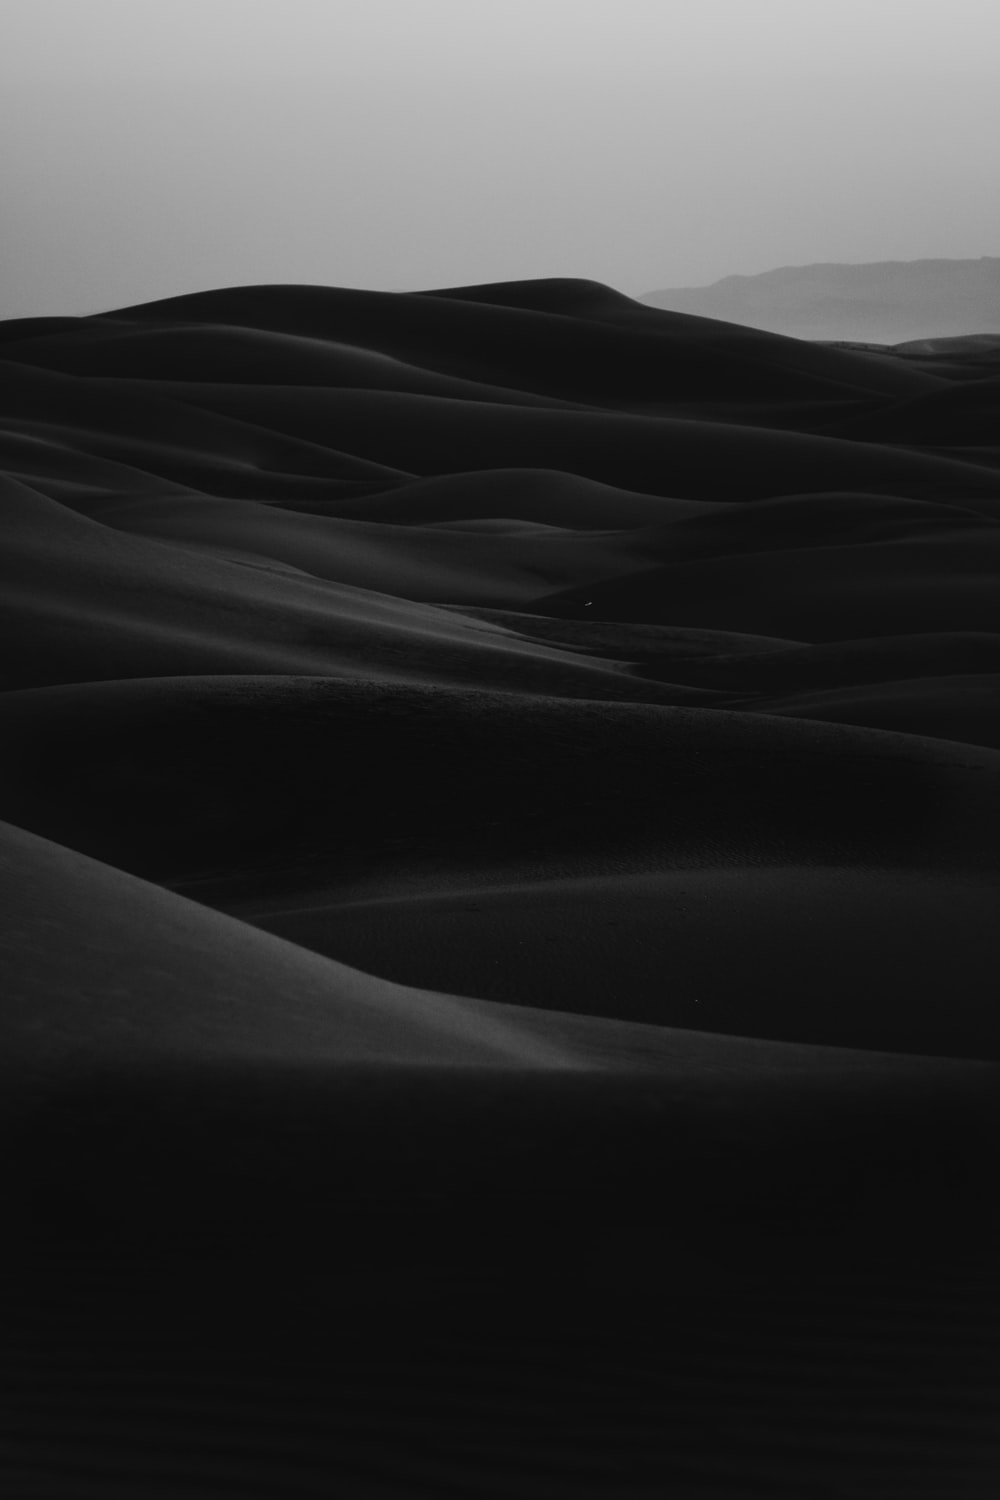
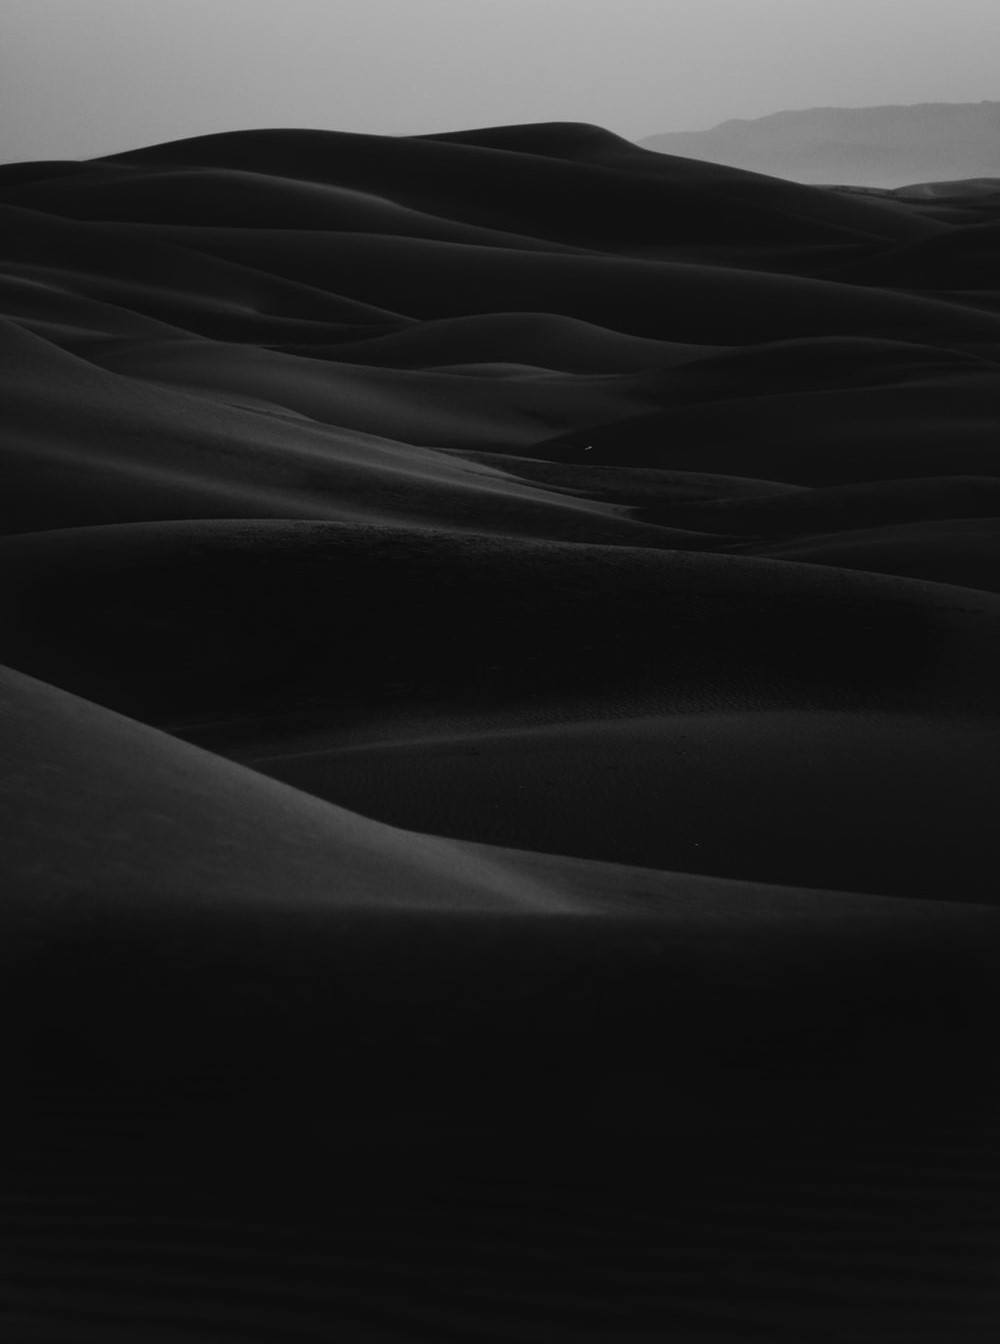
edited the hero and author images for optimization, added necessary div to about me section and finished about me css styling

diff --git a/index.html b/index.html
@@ -30,18 +30,18 @@
     </section>
 
     <section id="about-me" class="bio">
-        <div class="flex-row">
-            <h2>About Me:</h2>
+        <div class="me-content flex-row">
+            <h2>About Me</h2>
             <div class="me-img flex-row">
                 <img src="./assets/images/Enzo_Sperduti.jpg" alt="A picture of Enzo Sperduti smiling."/>
             </div>
             <div class="me-text flex-row">
                 <p>
-                    I am 19 years old, graduated highschool in 2020 and took 4 years of Computer Science. In my 4 years of coding we covered in depth: Java, C++, Python.<br />
-                    The classes I took were specifically focused around algorithims and making games like: Asteroids, Pong, TinyTanks, Mario, and many others that we curated ourselves.<br /> 
-                    I am now taking classes in the Trilogy bootcamp through UT Austin getting a certificate to become a Full-Stack Web Developer.<br />
-                    Many of the poeple I meet will quickly be able to tell that I am extroverted and that I take others' ideas into consideration.<br />
-                    Coding has been apart of my life for the past 5 years and I hope for it to become my main profession.<br />
+                    I am 19 years old, graduated highschool in 2020 and took 4 years of Computer Science. In my 4 years of coding we covered in depth: Java, C++, Python.
+                    The classes I took were specifically focused around algorithims and making games like: Asteroids, Pong, TinyTanks, Mario, and many others that we curated ourselves.
+                    I am now taking classes in the Trilogy bootcamp through UT Austin getting a certificate to become a Full-Stack Web Developer.
+                    Many of the poeple I meet will quickly be able to tell that I am extroverted and that I take others' ideas into consideration.
+                    Coding has been apart of my life for the past 5 years and I hope for it to become my main profession.
                     I would also like to mention, I have completed all of codingbat.com, both java and python.<br />
                     Feel free to reach out if you have any questions or propositions!
                 </p>
@@ -51,7 +51,7 @@
 
     <section id="work" class="work">
         <div class="flex-row">
-            <h2>Work:</h2>
+            <h2>My Work</h2>
             <div class="flex-row">
                 <article class="project">
                     <img src="./" alt="Run Buddy Project website"/>
@@ -73,7 +73,7 @@
 
     <section id="contact-me" class="contact">
         <div class="flex-row">
-            <h2>Contact Information:</h2>
+            <h2>Contact</h2>
             <div class="flex-row">
                 <p>Enzo Sperduti</p>
                 <address>

diff --git a/assets/css/styles.css b/assets/css/styles.css
@@ -7,7 +7,7 @@
 .flex-row{display: flex;}
 
 header{
-    padding: 20px;
+    padding-bottom: 10px;
 
     display: flex;
     flex-wrap: wrap;
@@ -15,18 +15,14 @@ header{
 
     background-image:url("../images/hero.jpg");
     background-size: cover;
-    background-position: 100%;
+    background-position: top;
     background-attachment: fixed;
 
     z-index: 999;
 }
-header h1{
-    font-weight: bold;
-    color: white;
-}
 header a{
     text-decoration: none;
-    color: white;
+    color: black;
 }
 header nav{
     margin: 20px 0;
@@ -53,13 +49,15 @@ header nav li a:hover{
 }
 
 body{margin:0 auto;}
+section{padding: 60px;}
 
 .hero{
     height: 100vh;
+    padding: 0;
 
     background-image:url("../images/hero.jpg");
     background-size: cover;
-    background-position: 100%;
+    background-position: top;
     background-repeat: no-repeat;
     background-attachment: fixed;
 
@@ -112,17 +110,30 @@ body{margin:0 auto;}
 }
 #hero-about{color:#d4d4d4;}
 
-section{padding: 60px;}
-
 .bio{
- background-color: rgb(35,35,35);
+    background-color: rgb(160, 160, 160);
+    margin: auto;
 }
+.me-content{
+    display: flex;
+    flex-direction: column;
+    justify-content: center;
+    align-items: center;
+    text-align: center;
+}
+.me-img{
+    clip-path: circle();
+    filter: grayscale(100%);
+    height: 405px;
+    width: 360px;
+}
+.me-text{max-width:750px;}
 
 .work{
 
 }
 
 .contact{
-    background-color: rgb(35,35,35);
+    background-color: rgb(160,160,160);
 }
 
